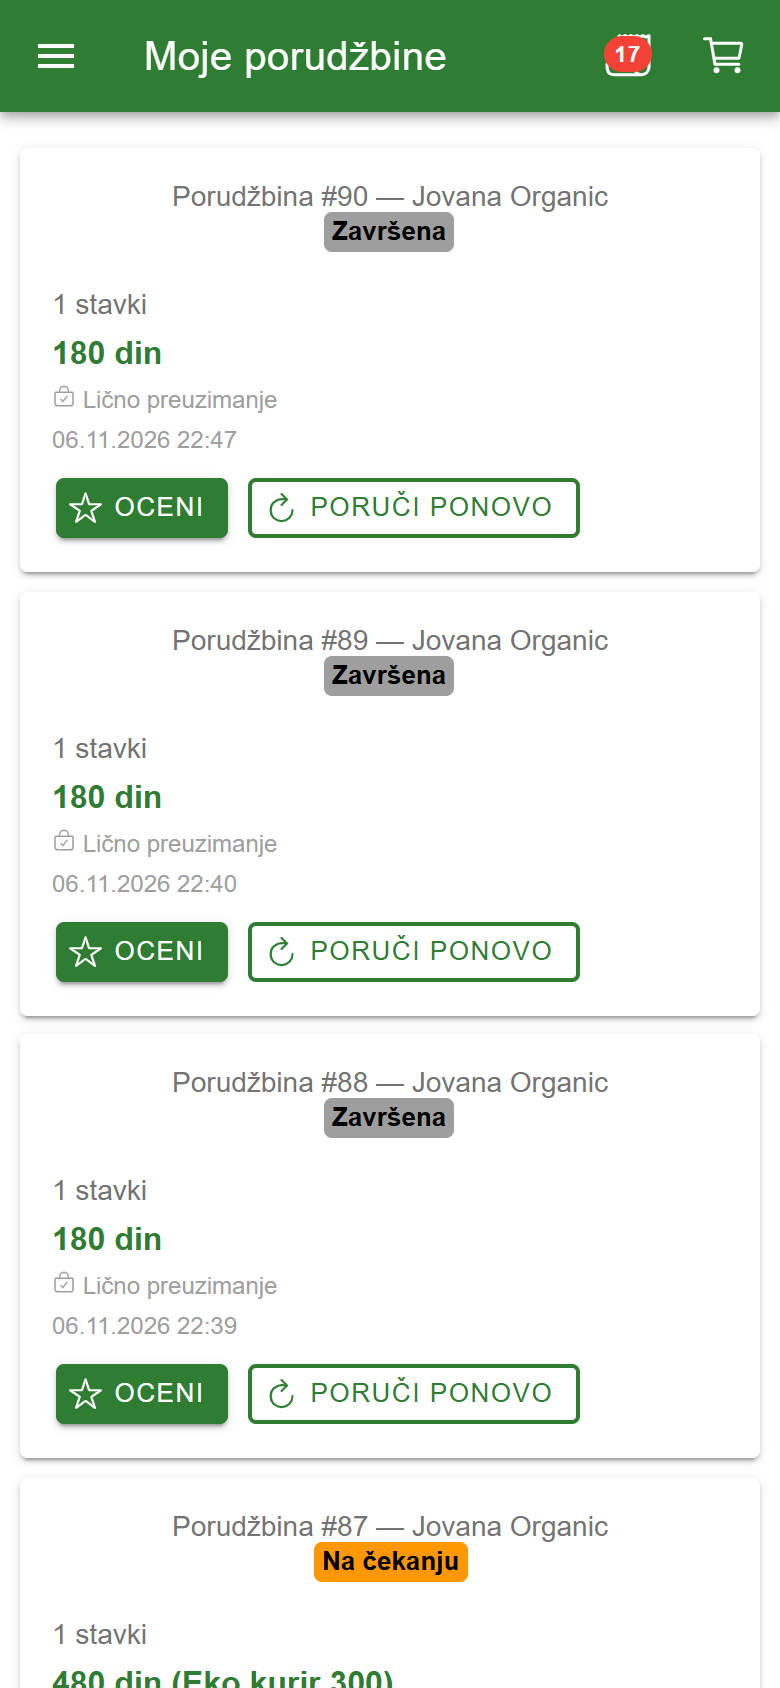
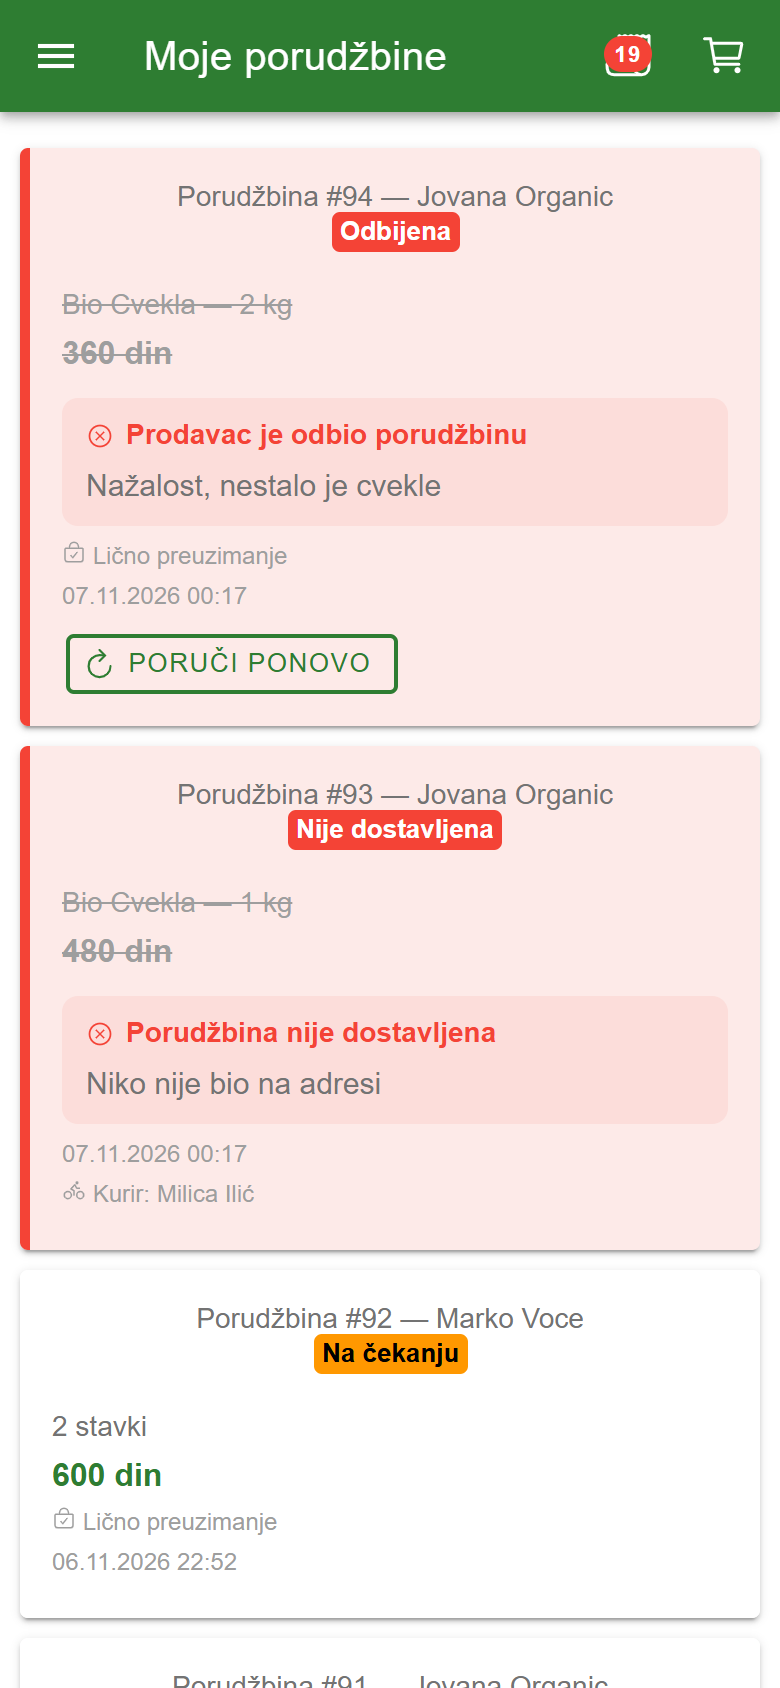
Keep vendors and couriers out of shopping, show failed orders in red, stop duplicate products
- Vendors and couriers can't order (403 on both order endpoints) and never see the
  shop: ShopGuard sends them from home, cart, customer orders and tracking to their
  own page, and the menu and header hide "Početna" and the cart.
- A rejected or not-delivered order is a red card in "Moje porudžbine", with the items
  struck through and the reason in a red box; detail and tracking strike them too.
- The product form no longer creates a product twice: a second tap is ignored, the
  form stays locked until it closes, and it starts clean every time it opens.
- Push notifications on in the mobile build (google-services.json stays local).
- Manual, README, CLAUDE.md and PODESAVANJA.md updated.

diff --git a/PijacaUDzepu.Client/src/app/vendor-product-form/vendor-product-form.page.ts b/PijacaUDzepu.Client/src/app/vendor-product-form/vendor-product-form.page.ts
@@ -1,6 +1,6 @@
-import { Component, OnDestroy, OnInit } from '@angular/core';
-import { ActivatedRoute, Router } from '@angular/router';
-import { ToastController } from '@ionic/angular/lazy';
+import { Component, OnDestroy } from '@angular/core';
+import { ActivatedRoute } from '@angular/router';
+import { NavController, ToastController } from '@ionic/angular/lazy';
 import { ProductService } from '../services/product.service';
 import { PRODUCT_CATEGORIES, ProductInput } from '../models/product.model';
 import { TranslateService } from '../services/translate.service';
@@ -13,9 +13,9 @@ import { shrinkImage } from '../shared/image-file';
   styleUrls: ['./vendor-product-form.page.scss'],
   standalone: false,
 })
-export class VendorProductFormPage implements OnInit, OnDestroy {
+export class VendorProductFormPage implements OnDestroy {
   productId: number | null = null;
-  model: ProductInput = { name: '', price: 0, unit: 'Kg', category: 'Povrce', productClass: null, isAvailable: true };
+  model: ProductInput = VendorProductFormPage.emptyModel();
   imageUrl: string | null = null;
   selectedFile: File | null = null;
   previewUrl: string | null = null;
@@ -28,13 +28,28 @@ export class VendorProductFormPage implements OnInit, OnDestroy {
 
   constructor(
     private route: ActivatedRoute,
-    private router: Router,
+    private navController: NavController,
     private productService: ProductService,
     private toastController: ToastController,
     private ts: TranslateService
   ) {}
 
-  ngOnInit() {
+  private static emptyModel(): ProductInput {
+    return { name: '', price: 0, unit: 'Kg', category: 'Povrce', productClass: null, isAvailable: true };
+  }
+
+  // Ionic čuva stranicu u istoriji: pri svakom ulasku forma kreće od čistog stanja, inače bi "Dodaj proizvod"
+  // mogao da otvori staru formu sa podacima prethodnog proizvoda, pa bi "Sačuvaj" napravio kopiju
+  ionViewWillEnter() {
+    this.productId = null;
+    this.model = VendorProductFormPage.emptyModel();
+    this.imageUrl = null;
+    this.selectedFile = null;
+    if (this.previewUrl) URL.revokeObjectURL(this.previewUrl);
+    this.previewUrl = null;
+    this.saving = false;
+    this.loading = false;
+
     const id = this.route.snapshot.paramMap.get('id');
     if (id) {
       this.productId = Number(id);
@@ -65,6 +80,8 @@ export class VendorProductFormPage implements OnInit, OnDestroy {
   }
 
   async save() {
+    // Dupli dodir: dugme se onemogući tek posle osvežavanja ekrana, pa bi drugi dodir napravio duplikat proizvoda
+    if (this.saving) return;
     this.saving = true;
     const obs = this.isEdit
       ? this.productService.update(this.productId!, this.model)
@@ -74,11 +91,7 @@ export class VendorProductFormPage implements OnInit, OnDestroy {
       next: async (product) => {
         if (this.selectedFile) {
           this.productService.uploadImage(product.id, this.selectedFile).subscribe({
-            next: async () => {
-              this.saving = false;
-              await this.showSuccess();
-              this.router.navigateByUrl('/vendor-products');
-            },
+            next: () => this.done(),
             // Proizvod je sačuvan, ali slika nije: ostaje se na formi da prodavac vidi zašto i pokuša ponovo
             error: async (err) => {
               this.saving = false;
@@ -91,9 +104,7 @@ export class VendorProductFormPage implements OnInit, OnDestroy {
             }
           });
         } else {
-          this.saving = false;
-          await this.showSuccess();
-          this.router.navigateByUrl('/vendor-products');
+          this.done();
         }
       },
       error: async (err) => {
@@ -104,6 +115,12 @@ export class VendorProductFormPage implements OnInit, OnDestroy {
         await toast.present();
       }
     });
+  }
+
+  // Sačuvano: dugme ostaje zaključano (drugi dodir ne sme da napravi duplikat), a forma se zatvara
+  private done() {
+    this.showSuccess();
+    this.navController.navigateBack('/vendor-products');
   }
 
   private async showSuccess() {

diff --git a/PijacaUDzepu.Client/src/app/my-orders/my-orders.page.html b/PijacaUDzepu.Client/src/app/my-orders/my-orders.page.html
@@ -24,7 +24,7 @@
   </div>
 
   <ion-list *ngIf="!loading">
-    <ion-card *ngFor="let order of orders" [routerLink]="['/order-detail', order.id]" [class.rejected]="order.status === 'Rejected'">
+    <ion-card *ngFor="let order of orders" [routerLink]="['/order-detail', order.id]" [class.failed]="order.status === 'Rejected' || order.status === 'NotDelivered'">
       <ion-card-header>
         <ion-card-subtitle>
           {{ 'orders.order' | t }} #{{ order.id }} — {{ order.vendorName }}
@@ -34,20 +34,20 @@
         </ion-badge>
       </ion-card-header>
       <ion-card-content>
-        <!-- Odbijena porudžbina: stavke i iznos precrtani, ispod razlog koji je napisao prodavac -->
-        <ng-container *ngIf="order.status === 'Rejected'; else regular">
+        <!-- Odbijena ili nedostavljena porudžbina: crvena kartica, stavke i iznos precrtani, ispod razlog -->
+        <ng-container *ngIf="order.status === 'Rejected' || order.status === 'NotDelivered'; else regular">
           <p *ngFor="let item of order.items" class="struck">{{ item.productName }} — {{ item.quantity }} {{ getUnitLabel(item.unit) }}</p>
           <p class="total struck">{{ order.amountToPay | number:'1.0-0' }} {{ 'din' | t }}</p>
           <div class="reject-reason">
-            <strong><ion-icon name="close-circle-outline"></ion-icon> {{ 'order.rejectedTitle' | t }}</strong>
-            <p *ngIf="order.vendorMessage">{{ order.vendorMessage }}</p>
+            <strong><ion-icon name="close-circle-outline"></ion-icon> {{ (order.status === 'Rejected' ? 'order.rejectedTitle' : 'order.notDeliveredTitle') | t }}</strong>
+            <p *ngIf="order.status === 'Rejected' && order.vendorMessage">{{ order.vendorMessage }}</p>
+            <p *ngIf="order.status === 'NotDelivered' && order.notDeliveredReason">{{ order.notDeliveredReason }}</p>
           </div>
         </ng-container>
         <ng-template #regular>
           <p>{{ order.items.length }} {{ 'cart.items' | t }}</p>
           <p class="total">{{ order.amountToPay | number:'1.0-0' }} {{ 'din' | t }}<span *ngIf="order.deliveryFee > 0"> ({{ 'order.deliveryFee' | t }} {{ order.deliveryFee | number:'1.0-0' }})</span></p>
           <p *ngIf="order.vendorMessage" class="date"><ion-icon name="chatbubble-ellipses-outline"></ion-icon> {{ order.vendorMessage }}</p>
-          <p *ngIf="order.status === 'NotDelivered'" class="date not-delivered"><ion-icon name="close-circle-outline"></ion-icon> {{ 'order.notDeliveredTitle' | t }}: {{ order.notDeliveredReason }}</p>
           <p *ngIf="order.closedByAdminAt" class="date"><ion-icon name="shield-checkmark-outline"></ion-icon> {{ 'order.closedByAdmin' | t }} · {{ order.closedByAdminAt | date:'dd.MM.yyyy HH:mm' }}</p>
         </ng-template>
         <p *ngIf="order.fulfillment === 'Pickup'" class="date"><ion-icon name="bag-check-outline"></ion-icon> {{ 'order.pickup' | t }}</p>

diff --git a/docs/uputstvo/deck.js b/docs/uputstvo/deck.js
@@ -295,7 +295,7 @@ async function build() {
   s.title('Nalog kupca');
   s.steps([
     { h: 'Registracija', d: 'Nalog nije obavezan. Pri registraciji upisujete telefon i adresu (sprat i stan po želji); oni se sami upisuju u korpu.' },
-    { h: 'Moje porudžbine', d: 'Ikonica gore desno, pored korpe: crveni broj su porudžbine u toku i „poskoči” kad stigne promena. Spisak sa statusom, iznosom, načinom preuzimanja, porukom prodavca i imenom kurira.' },
+    { h: 'Moje porudžbine', d: 'Ikonica gore desno, pored korpe: crveni broj su porudžbine u toku i „poskoči” kad stigne promena. Spisak sa statusom, iznosom, načinom preuzimanja, porukom prodavca i imenom kurira. Odbijena ili nedostavljena porudžbina je crvena, sa razlogom.' },
     { h: 'Detalji', n: '→', d: 'Dodir na porudžbinu otvara detalje (sledeća strana).' }
   ], 0.6, 1.75, 5.2);
   s.phone('c-register', LEFT_X, PHONE_Y, PHONE_H, 'Registracija sa telefonom i adresom', [[1, 0.93, 0.56]]);
@@ -355,9 +355,9 @@ async function build() {
     { h: 'Pozivnica', d: 'Nalog otvara administrator. Na e-mail vam stiže pozivnica, a preko nje birate lozinku.' },
     { h: 'Jezik', d: 'Srpski, engleski ili ruski: izbor važi za ceo meni.' },
     { h: 'Porudžbine', d: 'Ikonica gore desno na svakoj stranici, sa crvenim brojem porudžbina koje čekaju vaš odgovor (odmah raste kad stigne nova). Tab „Aktivne” su porudžbine u toku, a „Završene” završene i odbijene.' },
-    { h: 'Profil, proizvodi, odjava', n: '✓', d: 'Ostale stavke vode do profila tezge, spiska proizvoda i dodavanja novog proizvoda.' }
+    { h: 'Profil, proizvodi, odjava', n: '✓', d: 'Ostale stavke vode do profila tezge, spiska proizvoda i dodavanja novog proizvoda. Kao prodavac ne vidite ponudu i korpu: za kupovinu se odjavite ili koristite kupčev nalog.' }
   ]);
-  s.phone('v-menu', RIGHT_X, PHONE_Y, PHONE_H, 'Meni prodavca', [[2, 0.62, 0.096], [3, 0.56, 0.485]]);
+  s.phone('v-menu', RIGHT_X, PHONE_Y, PHONE_H, 'Meni prodavca', [[2, 0.62, 0.096], [3, 0.56, 0.435]]);
 
   // 14. Nova porudžbina
   s = new S('Sadrzaj - jedan ekran', 'Prodavci', 'prodavac');

diff --git a/PijacaUDzepu.Client/src/app/app-routing.module.ts b/PijacaUDzepu.Client/src/app/app-routing.module.ts
@@ -2,12 +2,14 @@ import { NgModule } from '@angular/core';
 import { PreloadAllModules, RouterModule, Routes } from '@angular/router';
 import { AuthGuard } from './guards/auth.guard';
 import { RoleGuard } from './guards/role.guard';
+import { ShopGuard } from './guards/shop.guard';
 
 const routes: Routes = [
   { path: '', redirectTo: 'home', pathMatch: 'full' },
   {
     path: 'home',
-    loadChildren: () => import('./home/home.module').then(m => m.HomePageModule)
+    loadChildren: () => import('./home/home.module').then(m => m.HomePageModule),
+    canActivate: [ShopGuard]
   },
   {
     path: 'login',
@@ -32,7 +34,8 @@ const routes: Routes = [
   },
   {
     path: 'cart',
-    loadChildren: () => import('./cart/cart.module').then(m => m.CartPageModule)
+    loadChildren: () => import('./cart/cart.module').then(m => m.CartPageModule),
+    canActivate: [ShopGuard]
   },
   {
     path: 'legal/:doc',
@@ -56,21 +59,23 @@ const routes: Routes = [
   },
   {
     path: 'prati',
-    loadChildren: () => import('./track-order/track-order.module').then(m => m.TrackOrderPageModule)
+    loadChildren: () => import('./track-order/track-order.module').then(m => m.TrackOrderPageModule),
+    canActivate: [ShopGuard]
   },
   {
     path: 'prati/:code',
-    loadChildren: () => import('./track-order/track-order.module').then(m => m.TrackOrderPageModule)
+    loadChildren: () => import('./track-order/track-order.module').then(m => m.TrackOrderPageModule),
+    canActivate: [ShopGuard]
   },
   {
     path: 'my-orders',
     loadChildren: () => import('./my-orders/my-orders.module').then(m => m.MyOrdersPageModule),
-    canActivate: [AuthGuard]
+    canActivate: [AuthGuard, ShopGuard]
   },
   {
     path: 'order-detail/:id',
     loadChildren: () => import('./order-detail/order-detail.module').then(m => m.OrderDetailPageModule),
-    canActivate: [AuthGuard]
+    canActivate: [AuthGuard, ShopGuard]
   },
   {
     path: 'courier-orders',

diff --git a/PijacaUDzepu.Client/src/app/app.component.html b/PijacaUDzepu.Client/src/app/app.component.html
@@ -22,7 +22,7 @@
         <button [class.active]="ts.lang === 'ru'" (click)="setLang('ru')">RU</button>
       </div>
       <ion-list>
-        <ion-item routerLink="/home" routerDirection="root" (click)="closeMenu()">
+        <ion-item *ngIf="!authService.isStaff" routerLink="/home" routerDirection="root" (click)="closeMenu()">
           <ion-icon name="storefront-outline" slot="start"></ion-icon>
           <ion-label>{{ 'nav.home' | t }}</ion-label>
         </ion-item>
@@ -140,17 +140,17 @@
   <!-- Desktop top nav bar (hidden on mobile) -->
   <div class="desktop-nav">
     <div class="desktop-nav-inner">
-      <a routerLink="/home" class="nav-brand">
+      <a [routerLink]="authService.isStaff ? authService.staffHome : '/home'" class="nav-brand">
         <img src="assets/logo.svg" [alt]="'app.title' | t" class="nav-logo" />
       </a>
 
       <nav class="nav-links">
-        <a routerLink="/home" routerLinkActive="active" [routerLinkActiveOptions]="{exact: true}">
+        <a *ngIf="!authService.isStaff" routerLink="/home" routerLinkActive="active" [routerLinkActiveOptions]="{exact: true}">
           <ion-icon name="storefront-outline"></ion-icon>
           <span>{{ 'nav.home' | t }}</span>
         </a>
 
-        <a routerLink="/cart" routerLinkActive="active" class="cart-link">
+        <a *ngIf="!authService.isStaff" routerLink="/cart" routerLinkActive="active" class="cart-link">
           <ion-icon name="cart-outline"></ion-icon>
           <span>{{ 'nav.cart' | t }}</span>
           <span *ngIf="cartCount > 0" class="cart-badge">{{ cartCount }}</span>

diff --git a/PijacaUDzepu.Client/src/app/track-order/track-order.page.html b/PijacaUDzepu.Client/src/app/track-order/track-order.page.html
@@ -98,14 +98,14 @@
             </div>
           </div>
 
-          <ion-list lines="none" class="items" [class.struck]="order.status === 'Rejected'">
+          <ion-list lines="none" class="items" [class.struck]="order.status === 'Rejected' || order.status === 'NotDelivered'">
             <ion-item *ngFor="let item of order.items">
               <ion-label><p>{{ item.productName }} — {{ item.quantity }} {{ getUnitLabel(item.unit) }}</p></ion-label>
               <ion-note slot="end">{{ item.totalPrice | number:'1.0-0' }} {{ 'din' | t }}</ion-note>
             </ion-item>
           </ion-list>
 
-          <p class="total" [class.struck]="order.status === 'Rejected'">
+          <p class="total" [class.struck]="order.status === 'Rejected' || order.status === 'NotDelivered'">
             {{ 'order.amountToPay' | t }}: <strong>{{ order.amountToPay | number:'1.0-0' }} {{ 'din' | t }}</strong>
             <span *ngIf="order.deliveryFee > 0" class="muted">({{ 'order.deliveryFee' | t }} {{ order.deliveryFee | number:'1.0-0' }})</span>
           </p>

diff --git a/PijacaUDzepu.Client/src/app/shared/cart-button/cart-button.component.ts b/PijacaUDzepu.Client/src/app/shared/cart-button/cart-button.component.ts
@@ -1,8 +1,10 @@
 import { Component, OnDestroy } from '@angular/core';
 import { Subscription } from 'rxjs';
 import { CartService } from '../../services/cart.service';
+import { AuthService } from '../../services/auth.service';
 
-// Korpa u gornjem desnom uglu na telefonu; na računaru je korpa u gornjem meniju
+// Korpa u gornjem desnom uglu na telefonu; na računaru je korpa u gornjem meniju.
+// Prodavac i kurir ne kupuju, pa je ne vide ni na zajedničkim stranicama (podrška, pravne strane).
 @Component({
   selector: 'app-cart-button',
   templateUrl: './cart-button.component.html',
@@ -13,7 +15,7 @@ export class CartButtonComponent implements OnDestroy {
   count = 0;
   private sub: Subscription;
 
-  constructor(cartService: CartService) {
+  constructor(cartService: CartService, public authService: AuthService) {
     this.sub = cartService.cart$.subscribe(items => {
       this.count = items.reduce((sum, i) => sum + i.quantity, 0);
     });

diff --git a/PijacaUDzepu.Client/src/app/order-detail/order-detail.page.html b/PijacaUDzepu.Client/src/app/order-detail/order-detail.page.html
@@ -82,7 +82,7 @@
       </ion-card-content>
     </ion-card>
 
-    <ion-list [class.struck]="order.status === 'Rejected'">
+    <ion-list [class.struck]="order.status === 'Rejected' || order.status === 'NotDelivered'">
       <ion-list-header>
         <ion-label>{{ 'order.items' | t }}</ion-label>
       </ion-list-header>
@@ -115,7 +115,7 @@
       </ion-button>
     </div>
 
-    <div class="total-row" [class.struck]="order.status === 'Rejected'">
+    <div class="total-row" [class.struck]="order.status === 'Rejected' || order.status === 'NotDelivered'">
       <strong>{{ 'cart.total' | t }} {{ order.totalAmount | number:'1.0-0' }} {{ 'din' | t }}</strong>
       <ng-container *ngIf="order.deliveryFee > 0">
         <p>{{ 'order.deliveryFee' | t }}: {{ order.deliveryFee | number:'1.0-0' }} {{ 'din' | t }}</p>

diff --git a/PijacaUDzepu.Client/src/app/guards/shop.guard.ts b/PijacaUDzepu.Client/src/app/guards/shop.guard.ts
@@ -1,0 +1,14 @@
+import { Injectable } from '@angular/core';
+import { CanActivate, Router, UrlTree } from '@angular/router';
+import { AuthService } from '../services/auth.service';
+
+// Kupčev deo (ponuda, korpa, porudžbine kupca, praćenje) nije za prodavce i kurire: oni ne kupuju
+// (server to i odbija), pa ih šaljemo na njihovu početnu stranu da ne dođe do zabune
+@Injectable({ providedIn: 'root' })
+export class ShopGuard implements CanActivate {
+  constructor(private authService: AuthService, private router: Router) {}
+
+  canActivate(): boolean | UrlTree {
+    return this.authService.isStaff ? this.router.parseUrl(this.authService.staffHome) : true;
+  }
+}

diff --git a/PijacaUDzepu.Client/src/app/services/auth.service.ts b/PijacaUDzepu.Client/src/app/services/auth.service.ts
@@ -30,6 +30,16 @@ export class AuthService {
     return this.currentUser?.roles?.includes(role) ?? false;
   }
 
+  // Prodavac i kurir ne kupuju i ne vide kupčev deo aplikacije
+  get isStaff(): boolean {
+    return this.hasRole('VendorAdmin') || this.hasRole('Courier');
+  }
+
+  // Početna strana za prodavca i kurira (ista kao posle prijave)
+  get staffHome(): string {
+    return this.hasRole('VendorAdmin') ? '/vendor-products' : '/courier-orders';
+  }
+
   login(dto: LoginDto) {
     return this.http.post<AuthResponse>(`${this.baseUrl}/login`, dto).pipe(
       tap(res => this.setAuth(res))

diff --git a/PijacaUDzepu.Client/src/environments/environment.mobile.ts b/PijacaUDzepu.Client/src/environments/environment.mobile.ts
@@ -8,7 +8,7 @@ export const environment = {
   // Javna adresa sajta za linkove koji se dele (npr. link za praćenje porudžbine)
   publicUrl: DEFAULT_API_SERVER,
   serverSelectable: true,
-  // Uključiti tek kada se android/app/google-services.json doda u projekat:
-  // bez njega PushNotifications.register() ruši Android aplikaciju u nativnom kodu
-  pushEnabled: false
+  // Zahteva android/app/google-services.json (lokalno, nije u repozitorijumu): bez njega
+  // PushNotifications.register() ruši Android aplikaciju u nativnom kodu
+  pushEnabled: true
 };

diff --git a/PijacaUDzepu.Client/src/app/my-orders/my-orders.page.scss b/PijacaUDzepu.Client/src/app/my-orders/my-orders.page.scss
@@ -32,4 +32,8 @@ ion-card-header {
 .order-actions { display: flex; flex-wrap: wrap; gap: 6px; margin-top: 6px; }
 .my-rating { color: #b8860b; font-size: 15px; margin: 6px 0 0; span { color: var(--ion-text-color); font-size: 13px; } }
 
-.not-delivered { color: var(--ion-color-danger) !important; }
+// Odbijena ili nedostavljena: cela kartica crvena, da se odmah vidi u spisku
+ion-card.failed {
+  border-left: 5px solid var(--ion-color-danger);
+  --background: rgba(var(--ion-color-danger-rgb), 0.06);
+}
